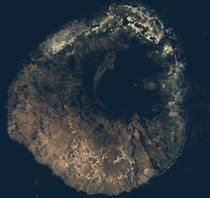
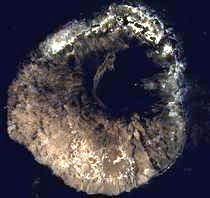
Правим карту архипелага и список островов
1. Пересвечиваем спутниковые тайлы Сантьягу и Фогу на карте — были тусклыми
   и терялись на фоне океана (auto-levels + гамма-коррекция по гистограмме
   каждого острова).
2. Карта архипелага переезжает сразу вторым блоком, после героя.
3. Карточки островов в списке (МЫС/цена/логистика) становятся кликабельными
   ссылками на страницы островов — раньше были простыми div.
4. На карточках островов при наведении проявляется полноразмерное aerial-фото
   острова (было статично приглушено на 22% непрозрачности).

diff --git a/index.html b/index.html
@@ -26,10 +26,17 @@
   .band{border-top:1px solid var(--line);position:relative;overflow:hidden}
   .band__grid{display:grid;grid-template-columns:86px 1.05fr 1fr 210px;gap:30px;
     padding:30px 0;align-items:center;position:relative}
-  .band__num{font-size:60px;color:rgba(242,239,231,.16);font-weight:800;letter-spacing:-.045em;line-height:1}
-  .band__ph{position:absolute;inset:0;width:100%;height:100%;object-fit:cover;opacity:.22}
-  .band__veil{position:absolute;inset:0;
+  .band__num{font-size:60px;color:rgba(242,239,231,.16);font-weight:800;letter-spacing:-.045em;line-height:1;
+    transition:color .3s ease}
+  .band__ph{position:absolute;inset:0;width:100%;height:100%;object-fit:cover;opacity:.22;
+    transition:opacity .5s ease,transform .7s ease;transform:scale(1)}
+  .band__veil{position:absolute;inset:0;opacity:1;transition:opacity .5s ease;
     background:linear-gradient(90deg,var(--black) 24%,rgba(11,11,12,.55) 100%)}
+  a.band{display:block;color:var(--ink);text-decoration:none;cursor:pointer}
+  a.band:hover .band__ph{opacity:.62;transform:scale(1.06)}
+  a.band:hover .band__veil{opacity:.45}
+  a.band:hover .band__num{color:var(--gold)}
+  a.band:focus-visible{outline:2px solid var(--gold);outline-offset:-4px}
   .btn{display:inline-block;background:var(--gold);color:var(--black);
     padding:17px 34px;font-weight:700;font-size:.8rem;letter-spacing:.1em;text-transform:uppercase}
   .btn:hover{background:#F5CE7A;color:var(--black)}
@@ -156,109 +163,6 @@
     background:linear-gradient(to top,var(--black) 2%,rgba(11,11,12,.12) 55%,rgba(11,11,12,.5) 100%)"></div>
 </div>
 
-<!-- ================= ТРИ НАПРАВЛЕНИЯ ================= -->
-<div style="padding:78px 0 0">
-  <div class="wrap" style="display:flex;justify-content:space-between;align-items:baseline;padding-bottom:30px">
-    <p class="tag">Чем занимаемся</p>
-    <p class="mono" style="font-size:.66rem;color:var(--faint)">три направления</p>
-  </div>
-
-  <div class="wrap" style="display:grid;grid-template-columns:repeat(3,1fr);gap:1px;
-    background:var(--line);border:1px solid var(--line)">
-
-    <article style="background:var(--black);padding:34px 28px;display:flex;flex-direction:column;gap:15px">
-      <span class="huge" style="font-size:15px;letter-spacing:.14em;color:var(--gold)">Жизнь</span>
-      <h3 class="huge" style="font-size:30px;letter-spacing:-.03em">Переезд<br>и статус</h3>
-      <p style="color:var(--dim);font-size:15px;line-height:1.55">
-        Разбираем, какое основание подходит именно вам, и ведём до карты резидента:
-        фирма, недвижимость, контракт, семья. Дальше — банк, жильё, школа, врач,
-        подрядчики. Не консультация по переписке, а работа на месте.
-      </p>
-      <p class="mono" style="font-size:.68rem;color:var(--faint);margin-top:auto;padding-top:16px;
-        border-top:1px solid var(--line)">пять оснований · сопровождение под ключ</p>
-    </article>
-
-    <article style="background:var(--black);padding:34px 28px;display:flex;flex-direction:column;gap:15px">
-      <span class="huge" style="font-size:15px;letter-spacing:.14em;color:var(--gold)">Поездки</span>
-      <h3 class="huge" style="font-size:30px;letter-spacing:-.03em">Приехать<br>и посмотреть</h3>
-      <p style="color:var(--dim);font-size:15px;line-height:1.55">
-        Разведочная неделя для тех, кто присматривается к переезду: подбираем остров
-        под задачу, встречаем, возим, показываем объекты и знакомим с людьми.
-        Отдельно — маршруты по островам для тех, кто едет просто смотреть.
-      </p>
-      <p class="mono" style="font-size:.68rem;color:var(--faint);margin-top:auto;padding-top:16px;
-        border-top:1px solid var(--line)">разведка · маршруты · сопровождение</p>
-    </article>
-
-    <article style="background:var(--black);padding:34px 28px;display:flex;flex-direction:column;gap:15px">
-      <span class="huge" style="font-size:15px;letter-spacing:.14em;color:var(--gold)">Инвестиции</span>
-      <h3 class="huge" style="font-size:30px;letter-spacing:-.03em">Купить<br>и вложить</h3>
-      <p style="color:var(--dim);font-size:15px;line-height:1.55">
-        Подбор и проверка объекта, сопровождение сделки, оформление на месте.
-        Покупка от порога даёт сразу ПМЖ — «зелёную карту» вместе с ключами, без обязательства жить в стране.
-        Отдельно ведём собственные проекты на островах.
-      </p>
-      <p class="mono" style="font-size:.68rem;color:var(--faint);margin-top:auto;padding-top:16px;
-        border-top:1px solid var(--line)">недвижимость · сделки · проекты</p>
-    </article>
-  </div>
-</div>
-
-<!-- ================= ТРИПТИХ ================= -->
-<div class="wrap" style="padding:70px 0 0">
-  <div style="display:grid;grid-template-columns:1fr;gap:12px">
-    <div style="display:grid;grid-template-columns:1fr;gap:12px">
-      <figure style="margin:0;position:relative;overflow:hidden;aspect-ratio:1500/640">
-        <img src="img/W_OCEAN.jpg" alt="Бирюзовая бухта Боа-Вишты" style="width:100%;height:100%;object-fit:cover;display:block">
-        <figcaption class="mono" style="position:absolute;left:20px;bottom:16px;font-size:.62rem;
-          letter-spacing:.16em;text-transform:uppercase;color:var(--ink);
-          background:rgba(11,11,12,.6);padding:6px 12px">Боа-Вишта · океан</figcaption>
-      </figure>
-    </div>
-    <div style="display:grid;grid-template-columns:repeat(3,1fr);gap:12px">
-      <figure style="margin:0;position:relative;overflow:hidden;aspect-ratio:11/8">
-        <img src="img/W_LIFE.jpg" alt="Бухта на Сантьягу с пальмами" style="width:100%;height:100%;object-fit:cover;display:block">
-        <figcaption class="mono" style="position:absolute;left:14px;bottom:12px;font-size:.58rem;
-          letter-spacing:.14em;text-transform:uppercase;color:var(--ink);
-          background:rgba(11,11,12,.6);padding:5px 10px">Сантьягу</figcaption>
-      </figure>
-      <figure style="margin:0;position:relative;overflow:hidden;aspect-ratio:11/8">
-        <img src="img/W_TOWN.jpg" alt="Минделу с высоты" style="width:100%;height:100%;object-fit:cover;display:block">
-        <figcaption class="mono" style="position:absolute;left:14px;bottom:12px;font-size:.58rem;
-          letter-spacing:.14em;text-transform:uppercase;color:var(--ink);
-          background:rgba(11,11,12,.6);padding:5px 10px">Минделу</figcaption>
-      </figure>
-      <figure style="margin:0;position:relative;overflow:hidden;aspect-ratio:11/8">
-        <img src="img/W_SUN.jpg" alt="Бирюзовая вода у Сала" style="width:100%;height:100%;object-fit:cover;display:block">
-        <figcaption class="mono" style="position:absolute;left:14px;bottom:12px;font-size:.58rem;
-          letter-spacing:.14em;text-transform:uppercase;color:var(--ink);
-          background:rgba(11,11,12,.6);padding:5px 10px">Сал</figcaption>
-      </figure>
-    </div>
-  </div>
-</div>
-
-<!-- ================= ТЕЗИС ================= -->
-<div style="position:relative;overflow:hidden;border-bottom:1px solid var(--line)">
-  <img src="img/LIVE.jpg" alt="" style="position:absolute;inset:0;width:100%;height:100%;object-fit:cover;opacity:.2">
-  <div style="position:absolute;inset:0;background:linear-gradient(105deg,var(--black) 38%,rgba(11,11,12,.4) 100%)"></div>
-  <div class="wrap" style="position:relative;padding:86px 0;display:grid;
-    grid-template-columns:1.1fr .9fr;gap:52px;align-items:center">
-    <div style="display:flex;flex-direction:column;gap:22px">
-      <p class="tag">Африканские Канары</p>
-      <h2 class="huge" style="font-size:clamp(34px,5vw,62px)">
-        Те же широты.<br>Другая цена.<br>Никакой очереди.
-      </h2>
-    </div>
-    <p style="font-size:18px;line-height:1.6;color:var(--dim)">
-      Вечная весна, Атлантика и вулканы — те же, что на Канарах, и та же широта.
-      Только здесь десять островов вместо семи, побережье не застроено,
-      а вход в вид на жительство дешевле. Мы не продаём место —
-      помогаем выбрать своё и проводим через всё, что дальше.
-    </p>
-  </div>
-</div>
-
 <!-- ================= КАРТА АРХИПЕЛАГА ================= -->
 <div style="padding:78px 0 0">
   <div class="wrap" style="display:grid;grid-template-columns:1fr 1fr;gap:48px;
@@ -369,6 +273,110 @@
   </div>
 </div>
 
+<!-- ================= ТРИ НАПРАВЛЕНИЯ ================= -->
+<div style="padding:78px 0 0">
+  <div class="wrap" style="display:flex;justify-content:space-between;align-items:baseline;padding-bottom:30px">
+    <p class="tag">Чем занимаемся</p>
+    <p class="mono" style="font-size:.66rem;color:var(--faint)">три направления</p>
+  </div>
+
+  <div class="wrap" style="display:grid;grid-template-columns:repeat(3,1fr);gap:1px;
+    background:var(--line);border:1px solid var(--line)">
+
+    <article style="background:var(--black);padding:34px 28px;display:flex;flex-direction:column;gap:15px">
+      <span class="huge" style="font-size:15px;letter-spacing:.14em;color:var(--gold)">Жизнь</span>
+      <h3 class="huge" style="font-size:30px;letter-spacing:-.03em">Переезд<br>и статус</h3>
+      <p style="color:var(--dim);font-size:15px;line-height:1.55">
+        Разбираем, какое основание подходит именно вам, и ведём до карты резидента:
+        фирма, недвижимость, контракт, семья. Дальше — банк, жильё, школа, врач,
+        подрядчики. Не консультация по переписке, а работа на месте.
+      </p>
+      <p class="mono" style="font-size:.68rem;color:var(--faint);margin-top:auto;padding-top:16px;
+        border-top:1px solid var(--line)">пять оснований · сопровождение под ключ</p>
+    </article>
+
+    <article style="background:var(--black);padding:34px 28px;display:flex;flex-direction:column;gap:15px">
+      <span class="huge" style="font-size:15px;letter-spacing:.14em;color:var(--gold)">Поездки</span>
+      <h3 class="huge" style="font-size:30px;letter-spacing:-.03em">Приехать<br>и посмотреть</h3>
+      <p style="color:var(--dim);font-size:15px;line-height:1.55">
+        Разведочная неделя для тех, кто присматривается к переезду: подбираем остров
+        под задачу, встречаем, возим, показываем объекты и знакомим с людьми.
+        Отдельно — маршруты по островам для тех, кто едет просто смотреть.
+      </p>
+      <p class="mono" style="font-size:.68rem;color:var(--faint);margin-top:auto;padding-top:16px;
+        border-top:1px solid var(--line)">разведка · маршруты · сопровождение</p>
+    </article>
+
+    <article style="background:var(--black);padding:34px 28px;display:flex;flex-direction:column;gap:15px">
+      <span class="huge" style="font-size:15px;letter-spacing:.14em;color:var(--gold)">Инвестиции</span>
+      <h3 class="huge" style="font-size:30px;letter-spacing:-.03em">Купить<br>и вложить</h3>
+      <p style="color:var(--dim);font-size:15px;line-height:1.55">
+        Подбор и проверка объекта, сопровождение сделки, оформление на месте.
+        Покупка от порога даёт сразу ПМЖ — «зелёную карту» вместе с ключами, без обязательства жить в стране.
+        Отдельно ведём собственные проекты на островах.
+      </p>
+      <p class="mono" style="font-size:.68rem;color:var(--faint);margin-top:auto;padding-top:16px;
+        border-top:1px solid var(--line)">недвижимость · сделки · проекты</p>
+    </article>
+  </div>
+</div>
+
+<!-- ================= ТРИПТИХ ================= -->
+<div class="wrap" style="padding:70px 0 0">
+  <div style="display:grid;grid-template-columns:1fr;gap:12px">
+    <div style="display:grid;grid-template-columns:1fr;gap:12px">
+      <figure style="margin:0;position:relative;overflow:hidden;aspect-ratio:1500/640">
+        <img src="img/W_OCEAN.jpg" alt="Бирюзовая бухта Боа-Вишты" style="width:100%;height:100%;object-fit:cover;display:block">
+        <figcaption class="mono" style="position:absolute;left:20px;bottom:16px;font-size:.62rem;
+          letter-spacing:.16em;text-transform:uppercase;color:var(--ink);
+          background:rgba(11,11,12,.6);padding:6px 12px">Боа-Вишта · океан</figcaption>
+      </figure>
+    </div>
+    <div style="display:grid;grid-template-columns:repeat(3,1fr);gap:12px">
+      <figure style="margin:0;position:relative;overflow:hidden;aspect-ratio:11/8">
+        <img src="img/W_LIFE.jpg" alt="Бухта на Сантьягу с пальмами" style="width:100%;height:100%;object-fit:cover;display:block">
+        <figcaption class="mono" style="position:absolute;left:14px;bottom:12px;font-size:.58rem;
+          letter-spacing:.14em;text-transform:uppercase;color:var(--ink);
+          background:rgba(11,11,12,.6);padding:5px 10px">Сантьягу</figcaption>
+      </figure>
+      <figure style="margin:0;position:relative;overflow:hidden;aspect-ratio:11/8">
+        <img src="img/W_TOWN.jpg" alt="Минделу с высоты" style="width:100%;height:100%;object-fit:cover;display:block">
+        <figcaption class="mono" style="position:absolute;left:14px;bottom:12px;font-size:.58rem;
+          letter-spacing:.14em;text-transform:uppercase;color:var(--ink);
+          background:rgba(11,11,12,.6);padding:5px 10px">Минделу</figcaption>
+      </figure>
+      <figure style="margin:0;position:relative;overflow:hidden;aspect-ratio:11/8">
+        <img src="img/W_SUN.jpg" alt="Бирюзовая вода у Сала" style="width:100%;height:100%;object-fit:cover;display:block">
+        <figcaption class="mono" style="position:absolute;left:14px;bottom:12px;font-size:.58rem;
+          letter-spacing:.14em;text-transform:uppercase;color:var(--ink);
+          background:rgba(11,11,12,.6);padding:5px 10px">Сал</figcaption>
+      </figure>
+    </div>
+  </div>
+</div>
+
+<!-- ================= ТЕЗИС ================= -->
+<div style="position:relative;overflow:hidden;border-bottom:1px solid var(--line)">
+  <img src="img/LIVE.jpg" alt="" style="position:absolute;inset:0;width:100%;height:100%;object-fit:cover;opacity:.2">
+  <div style="position:absolute;inset:0;background:linear-gradient(105deg,var(--black) 38%,rgba(11,11,12,.4) 100%)"></div>
+  <div class="wrap" style="position:relative;padding:86px 0;display:grid;
+    grid-template-columns:1.1fr .9fr;gap:52px;align-items:center">
+    <div style="display:flex;flex-direction:column;gap:22px">
+      <p class="tag">Африканские Канары</p>
+      <h2 class="huge" style="font-size:clamp(34px,5vw,62px)">
+        Те же широты.<br>Другая цена.<br>Никакой очереди.
+      </h2>
+    </div>
+    <p style="font-size:18px;line-height:1.6;color:var(--dim)">
+      Вечная весна, Атлантика и вулканы — те же, что на Канарах, и та же широта.
+      Только здесь десять островов вместо семи, побережье не застроено,
+      а вход в вид на жительство дешевле. Мы не продаём место —
+      помогаем выбрать своё и проводим через всё, что дальше.
+    </p>
+  </div>
+</div>
+
+
 <!-- ================= ОСТРОВА ================= -->
 <div style="padding:74px 0 0">
   <div class="wrap" style="display:flex;justify-content:space-between;align-items:baseline;padding-bottom:26px">
@@ -376,7 +384,9 @@
     <p class="mono" style="font-size:.66rem;color:var(--faint)">цена метра · как добраться</p>
   </div>
 
-  <div class="band">
+  <a class="band" href="santo-antao.html">
+    <img class="band__ph" src="img/ISL_SANTOANTAO.jpg" alt="">
+    <div class="band__veil"></div>
     <div class="wrap band__grid">
       <span class="band__num">01</span>
       <div style="display:flex;flex-direction:column;gap:6px">
@@ -389,9 +399,9 @@
         <span class="mono" style="font-size:.64rem;color:var(--faint)">паром из Минделу</span>
       </div>
     </div>
-  </div>
+  </a>
 
-  <div class="band">
+  <a class="band" href="santiago.html">
     <img class="band__ph" src="img/ISL_SANTIAGO.jpg" alt="">
     <div class="band__veil"></div>
     <div class="wrap band__grid">
@@ -406,9 +416,9 @@
         <span class="mono" style="font-size:.64rem;color:var(--faint)">международный аэропорт</span>
       </div>
     </div>
-  </div>
+  </a>
 
-  <div class="band">
+  <a class="band" href="sao-vicente.html">
     <img class="band__ph" src="img/ISL_SAOVICENTE.jpg" alt="">
     <div class="band__veil"></div>
     <div class="wrap band__grid" style="position:relative">
@@ -423,9 +433,9 @@
         <span class="mono" style="font-size:.64rem;color:var(--faint)">объект у моря · аэропорт и паромы</span>
       </div>
     </div>
-  </div>
+  </a>
 
-  <div class="band">
+  <a class="band" href="sal.html">
     <img class="band__ph" src="img/ISL_SAL.jpg" alt="">
     <div class="band__veil"></div>
     <div class="wrap band__grid">
@@ -440,9 +450,9 @@
         <span class="mono" style="font-size:.64rem;color:var(--faint)">главный аэропорт страны</span>
       </div>
     </div>
-  </div>
+  </a>
 
-  <div class="band">
+  <a class="band" href="boa-vista.html">
     <img class="band__ph" src="img/ISL_BOAVISTA.jpg" alt="">
     <div class="band__veil"></div>
     <div class="wrap band__grid" style="position:relative">
@@ -457,9 +467,9 @@
         <span class="mono" style="font-size:.64rem;color:var(--faint)">свой аэропорт</span>
       </div>
     </div>
-  </div>
+  </a>
 
-  <div class="band" style="border-bottom:1px solid var(--line)">
+  <a class="band" href="fogo.html" style="border-bottom:1px solid var(--line)">
     <img class="band__ph" src="img/ISL_FOGO.jpg" alt="">
     <div class="band__veil"></div>
     <div class="wrap band__grid">
@@ -474,7 +484,7 @@
         <span class="mono" style="font-size:.64rem;color:var(--faint)">земля · внутренние рейсы</span>
       </div>
     </div>
-  </div>
+  </a>
 </div>
 
 <!-- ================= ЦИФРЫ ================= -->
